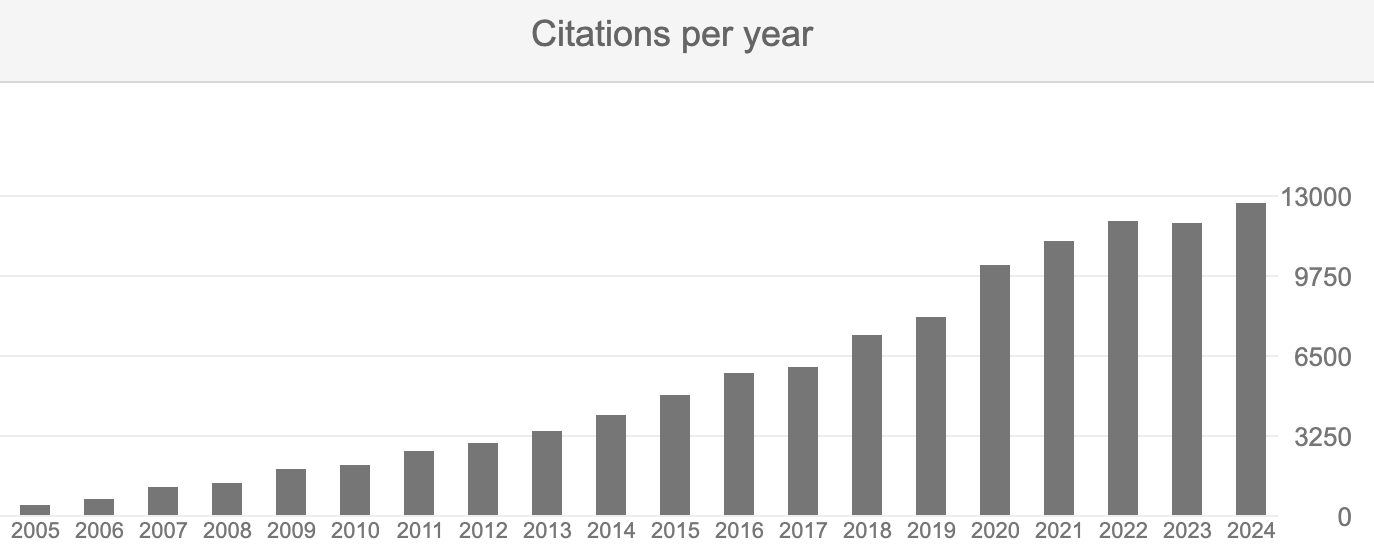
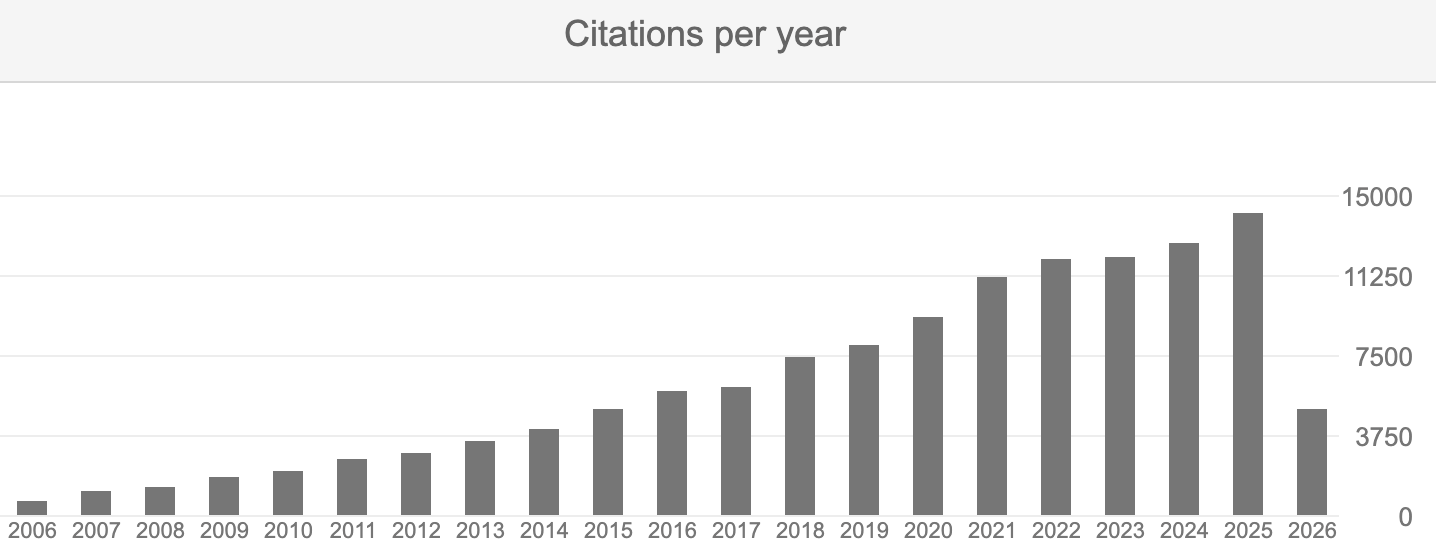
Merge pull request #57 from geoschem/feature/update-usermap-may2026
Update GEOS-Chem User Map and Stats Page

Pull request: Update GEOS-Chem User Map and Stats Page
### Name and Institution (Required)

Name: Melissa Sulprizio
Institution: Harvard

### Describe the update

Update the GEOS-Chem user map to include new institutions from the latest registered users list.

Also updated the GEOS-Chem by the numbers page (stats.html) to include (1) the latest number of users count for 2025 and 2026 and (2) an updated bar chart for number of GEOS-Chem citations.

diff --git a/users.html b/users.html
@@ -110,7 +110,7 @@
 </p>
 
 <p align="center">
-	Last updated: June 2024
+	Last updated: May 2026
 </p>
 
 <!-- Map from original ACMG website -->
@@ -188,6 +188,12 @@
   // Australian National University
   L.marker([-35.28124451436539, 149.11824869527752], { icon: blueIcon }).addTo(mymap).bindPopup("<strong>Australian National University</strong><br>Canberra, Australia<ul><li><a href='https://nci.org.au/' target='_new'>National Computational Infrastructure (NCI)</a></li></ul>");
 
+  // Banaras Hindu University
+  L.marker([25.268535251134985, 82.99052197975918], { icon: blueIcon }).addTo(mymap).bindPopup("<strong>Banaras Hindu University</strong><br>Varanasi, India</strong><ul><li><a href='https://www.bhu.ac.in/Site/Home/1_2_16_Main-Site' target='_new'>Website</a></li></ul>");
+
+  // Bar-Ilan University
+  L.marker([32.06918069047199, 34.84314124051376], { icon: blueIcon }).addTo(mymap).bindPopup("<strong>Bar-Ilan University</strong><br>Ramat Gan, Israel</strong><ul><li><a href='https://www.biu.ac.il/en' target='_new'>Website</a></li></ul>");
+
   // Baylor University
   L.marker([31.550075631159743, -97.11348635896569], { icon: blueIcon }).addTo(mymap).bindPopup("<strong>Baylor University</strong><br>Waco, Texas, USA</strong><ul><li><a href='https://environmentalscience.artsandsciences.baylor.edu/' target='_new'>Department of Environmental Science</a></li></ul>");
 
@@ -227,6 +233,9 @@
   // Caltech
   L.marker([34.13765314049858, -118.12527436670602], { icon: blueIcon }).addTo(mymap).bindPopup("<strong>California Institute of Technology</strong><br>Pasadena, California, USA<ul><li><a href='https://wennberglab.caltech.edu/' target='_new'>Wennberg Lab</li></ul>");
 
+  // Carbon Mapper
+  L.marker([34.1454152349616, -118.13640114407322], { icon: blueIcon }).addTo(mymap).bindPopup("<strong>Carbon Mapper</strong><br>Pasadena, California, USA<ul><li><a href='https://carbonmapper.org/' target='_new'>Website</li></ul>");
+
   // Cardiff University
   L.marker([51.488827229102526, -3.178811723294426], { icon: blueIcon }).addTo(mymap).bindPopup("<strong>Cardiff University/strong><br>Cardiff, UK<ul><li><a href='https://omarnawaz.com/' target='_new'>Climate and Atmospheric Science for Action Group (CASA)</li></ul>");
 
@@ -263,6 +272,9 @@
   // China University of Geosciences
   L.marker([30.516052531832578, 114.40242461025662], { icon: blueIcon }).addTo(mymap).bindPopup("<strong>China University of Geoscience</strong><br>Wuhan, China<ul><li><a href='https://en.cug.edu.cn/' target='_new'>Website</a></li></ul>");
 
+  // China West Normal University
+  L.marker([30.820119965727674, 106.06895119510067], { icon: blueIcon }).addTo(mymap).bindPopup("<strong>China West Normal University</strong><br>Nanchong, Sichuan, China<ul><li><a href='https://www.cwnu.edu.cn/' target='_new'>Website</a></li></ul>");
+
   // China University of Mining and Technology
   L.marker([39.997986823978344, 116.34848428095418], { icon: blueIcon }).addTo(mymap).bindPopup("<strong>China University of Mining and Technology</strong><br>Xuzhou, China<ul><li><a href='https://english.cumtb.edu.cn/' target='_new'>Website</a></li></ul>");
 
@@ -286,6 +298,9 @@
 
   // Chungnam National University
   L.marker([36.368815211295875, 127.34684477003172], { icon: blueIcon }).addTo(mymap).bindPopup("<strong>Chungnam National University</strong><br>Daejeon, South Korea<ul><li><a href='https://plus.cnu.ac.kr/html/en/' target='_new'>Website</a></li></ul>");
+
+  // Chuo University
+  L.marker([35.641023425617526, 139.4042474537627], { icon: blueIcon }).addTo(mymap).bindPopup("<strong>Chuo University</strong><br>Hachioji, Japan<ul><li><a href='https://www.chuo-u.ac.jp/english/' target='_new'>Website</a></li></ul>");
 
   // CIEMAT
   L.marker([40.45411784374525, -3.728946830556703], { icon: blueIcon }).addTo(mymap).bindPopup("<strong>CIEMAT</strong><br>Madrid, Spain<ul><li><a href='https://www.ciemat.es/' target='_new'>Website</a></li></ul>");
@@ -338,17 +353,20 @@
   // École Polytechnique
   L.marker([48.7147380132475, 2.215718140984176], { icon: blueIcon }).addTo(mymap).bindPopup("<strong>École Polytechnique</strong><br>Palaiseau, France<ul><li><a href='https://www.polytechnique.edu/en' target='_new'>Website</a></li></ul>");
 
-  // EFPL
-  L.marker([46.51905567099026, 6.566703953248848], { icon: blueIcon }).addTo(mymap).bindPopup("<strong>EFPL</strong><br>Lausanne, Switzerland<ul><li><a href='https://www.epfl.ch/labs/lapi/' target='_new'>Laboratory of atmospheric processes and their impacts (LAPI)</a></li></ul>");
-
   // Electric Power Research Institute (EPRI)
   L.marker([37.39705950928723, -122.14521947857237], { icon: blueIcon }).addTo(mymap).bindPopup("<strong>Electric Power Research Institute (EPRI)</strong><br>Palo Alto, California, USA<ul><li><a href='https://www.epri.com/' target='_new'>Website</a></li></ul>");
 
   // Environment and Climate Change Canada
   L.marker([43.781175069183135, -79.46941936822819], { icon: blueIcon }).addTo(mymap).bindPopup("<strong>Environment and Climate Change Canada</strong><br>Toronto, Ontario, Canada<ul><li><a href='https://www.canada.ca/en/environment-climate-change.html' target='_new'>Website</a></li></ul>");
 
+  // Environmental Defense Fund
+  L.marker([40.73851993115424, -73.98715086695302], { icon: blueIcon }).addTo(mymap).bindPopup("<strong>Environmental Defense Fund</strong><br>New York, New York, USA<ul><li><a href='https://www.edf.org/' target='_new'>Website</a></li></ul>");
+
   // Eötvös Loránd University
   L.marker([47.4905625214605, 19.058662514141485], { icon: blueIcon }).addTo(mymap).bindPopup("<strong>Eötvös Loránd University</strong><br>Budapest, Hungary<ul><li><a href='https://www.math.elte.hu/en/' target='_new'>Institute of Mathematics</a></li></ul>");
+
+  // EPFL
+  L.marker([46.52046762329701, 6.570191535225245], { icon: blueIcon }).addTo(mymap).bindPopup("<strong>EPFL</strong><br>Ecublens, Switzerland<ul><li><a href='https://www.epfl.ch/labs/lapi/' target='_new'>Laboratory of atmospheric processes and their impacts (LAPI)</a></li></ul>");
 
   // ETH Zurich
   L.marker([47.37638160570821, 8.547660183239364], { icon: blueIcon }).addTo(mymap).bindPopup("<strong>ETH Zurich</strong><br>Zurich, Switzerland<ul><li><a href='https://iac.ethz.ch/group/atmospheric-chemistry.html' target='_new'>Atmospheric Chemistry</a></li><li><a href='https://iac.ethz.ch/group/atmospheric-physics.html' target='_new'>Atmospheric Physics</a></li></ul>");
@@ -359,17 +377,26 @@
   // ExxonMobil Research and Engineering, Corporate Strategic Research
   L.marker([40.63635953798503, -74.86503770596059], { icon: blueIcon }).addTo(mymap).bindPopup("<strong>ExxonMobil Research and Engineering</strong><br>Annandale, New Jersey, USA<ul><li><a href='https://corporate.exxonmobil.com/en/energy/research-and-development' target='_new'>Corporate Strategic Research</a></li></ul>");
 
+  // First Institute of Oceanography
+  L.marker([36.10225966011053, 120.45930046626529], { icon: blueIcon }).addTo(mymap).bindPopup("<strong>First Institute of Oceanography</strong><br>Qingdao, China<ul><li><a href='https://en.fio.org.cn/' target='_new'>Website</a></li></ul>");
+
   // Fudan University
   L.marker([31.297437997558845, 121.50363925807366], { icon: blueIcon }).addTo(mymap).bindPopup("<strong>Fudan University</strong><br>Shanghai Shi, China<ul><li><a href='https://aos.fudan.edu.cn/zzbsh/list.htm' target='_new'>Institute of Atmospheric Sciences</a></li><li><a href='https://environment.fudan.edu.cn/' target='_blank'>Department of Environmental Science and Engineering</a></li></ul>");
 
   // Fujian Normal University
   L.marker([26.035947082276685, 119.30624493910481], { icon: blueIcon }).addTo(mymap).bindPopup("<strong>Fujian Normal University</strong><br>Fujian, China<ul><li><a href='https://geo.fjnu.edu.cn/en/main.htm' target='_new'>School of Geographical Sciences</a></li></ul>");
 
+  // GE Aerospace
+  L.marker([39.24452332698239, -84.44258156082859], { icon: blueIcon }).addTo(mymap).bindPopup("<strong>GE Aerospace</strong><br>Evandale, Ohio, USA<ul><li><a href='https://www.geaerospace.com/' target='_new'>Website</a></li></ul>");
+
   // George Washington University
   L.marker([38.89971447161152, -77.04855628834781], { icon: blueIcon }).addTo(mymap).bindPopup("<strong>George Washington University</strong><br>Washington, DC, USA<ul><li><a href='https://blogs.gwu.edu/sanenberg/' target='_new'>Air, Climate, and Health Lab</a></li></ul>");
 
   // Georgia Tech
   L.marker([33.7756177609747, -84.39627427122511], { icon: blueIcon }).addTo(mymap).bindPopup("<strong>Georgia Tech</strong><br>Atlanta, GA, USA<ul><li><a href='https://kaisergroup.ce.gatech.edu/' target='_new'>Kaiser Group</li><li><a href='https://www.asdl.gatech.edu/' target='_blank'>Aerospace Systems Design Laboratory</a></li></ul>");
+
+  // GMV
+  L.marker([40.59371271357736, -3.701506098211796], { icon: blueIcon }).addTo(mymap).bindPopup("<strong>GMV</strong><br>Madrid, Spain<ul><li><a href='https://www.gmv.com/en-es' target='_new'>Website</li></ul>");
 
   // Goa University
   L.marker([15.457333725099007, 73.83538523771075], { icon: blueIcon }).addTo(mymap).bindPopup("<strong>Goa University</strong><br>Goa, India<ul><li><a href='https://www.unigoa.ac.in/' target='_new'>Website</a></li></ul>");
@@ -380,11 +407,17 @@
   // Guangxi University
   L.marker([22.81447775817724, 108.32426664062777], { icon: blueIcon }).addTo(mymap).bindPopup("<strong>Guangxi University</strong><br>Guangxi, China<ul><li><a href='https://bs.gxu.edu.cn/' target='_new'>Website</a></li></ul>");
 
+  // Guangzhou University
+  L.marker([23.04137369885725, 113.36779266731932], { icon: blueIcon }).addTo(mymap).bindPopup("<strong>Guangzhou University</strong><br>Guangzhou, China<ul><li><a href='https://arsi.gzhu.edu.cn/' target='_new'>Institute of Aerospace Remote Sensing Innovations (ARSI)</a></li></ul>");
+
   // Guizhou Minzu University
   L.marker([26.46383337227194, 106.66973371164009], { icon: blueIcon }).addTo(mymap).bindPopup("<strong>Guizhou Minzu University</strong><br>Guizhou, China<ul><li><a href='https://www.gzmu.edu.cn/' target='_new'>Website</a></li></ul>");
 
   // Guizhou University
   L.marker([26.44248192693396, 106.67240128370068], { icon: blueIcon }).addTo(mymap).bindPopup("<strong>Guizhou University</strong><br>Guizhou, China<ul><li><a href='www.gzu.edu.cn' target='_new'>Website</a></li></ul>");
+
+  // Gulfstream Aerospace
+  L.marker([32.139567681028716, -81.18839027152032], { icon: blueIcon }).addTo(mymap).bindPopup("<strong>Gulfstream Aerospace</strong><br>Savannah, Georgia, USA<ul><li><a href='https://www.gulfstream.com/en/' target='_new'>Website</a></li></ul>");
 
   // Hampton University
   L.marker([37.02283060621309, -76.33431738761512], { icon: blueIcon }).addTo(mymap).bindPopup("<strong>Hampton University</strong><br>Hampton, Virginia, USA<ul><li><a href='https://home.hamptonu.edu/science/atmospheric-planetary-sciences/' target='_new'>Atmospheric and Planetary Sciences</a></li></ul>");
@@ -434,14 +467,20 @@
   // Indian Institute of Science and Research Pune
   L.marker([18.54692002577907, 73.80754262172489], { icon: blueIcon }).addTo(mymap).bindPopup("<strong>Indian Institute of Science and Research Pune</strong><br>Pune, India<ul><li><a href='https://www.iiserpune.ac.in/' target='_new'>Website</a></li></ul>");
 
+  // Indian Institute of Science Education and Research Mohali
+  L.marker([30.663760712444283, 76.72750223486955], { icon: blueIcon }).addTo(mymap).bindPopup("<strong>Indian Institute of Science Education and Research Mohali</strong><br>Nagar, India<ul><li><a href='https://www.iisermohali.ac.in/' target='_new'>Website</a></li></ul>");
+
+  // Indian Institute of Technology (ISM) Dhanbad
+  L.marker([23.81440706327089, 86.44130264049929], { icon: blueIcon }).addTo(mymap).bindPopup("<strong>Indian Institute of Technology (ISM) Dhanbad</strong><br>Dhanbad, India<ul><li><a href='https://www.iitism.ac.in/' target='_new'>Website</a></li></ul>");
+
   // Indian Institute of Technology Bombay
   L.marker([19.13350112332897, 72.91356830937697], { icon: blueIcon }).addTo(mymap).bindPopup("<strong>Indian Institute of Technology Bombay</strong><br>Bombay, India<ul><li><a href='https://www.esed.iitb.ac.in/' target='_new'>Environmental Science and Engineering</a></li></ul>");
 
   // Indian Institute of Technology Delhi
   L.marker([28.545708723480907, 77.19274103527056], { icon: blueIcon }).addTo(mymap).bindPopup("<strong>Indian Institute of Technology Delhi</strong><br>Delhi, India<ul><li><a href='https://cas.iitd.ac.in/' target='_new'>Center for Atmospheric Sciences</a></li></ul>");
 
-  // Indian Institute of Technology (ISM) Dhanbad
-  L.marker([23.81440706327089, 86.44130264049929], { icon: blueIcon }).addTo(mymap).bindPopup("<strong>Indian Institute of Technology (ISM) Dhanbad</strong><br>Dhanbad, India<ul><li><a href='https://www.iitism.ac.in/' target='_new'>Website</a></li></ul>");
+  // Indian Institute of Technology Gandhinagar
+  L.marker([23.21324585841199, 72.68574149817186], { icon: blueIcon }).addTo(mymap).bindPopup("<strong>Indian Institute of Technology Gandhinagar</strong><br>Gandhinagar, India<ul><li><a href='https://iitgn.ac.in/' target='_new'>Website</a></li></ul>");
 
   // Indian Institute of Technology Hyderabad
   L.marker([17.594896990005925, 78.12280406701275], { icon: blueIcon }).addTo(mymap).bindPopup("<strong>Indian Institute of Technology Hyderabad</strong><br>Telangana, India<ul><li><a href='https://asifqureshi.wordpress.com/' target='_new'>The C2 Lab</a></li></ul>");
@@ -457,6 +496,9 @@
 
   // Indiana University
   L.marker([39.16822400382802, -86.5230341414705], { icon: blueIcon }).addTo(mymap).bindPopup("<strong>Indiana University</strong><br>Bloomington, IN, USA<ul><li><a href='https://psslab.sitehost.iu.edu/' target='_new'>Stevens Lab</a></li></ul>");
+
+  // Inha University
+  L.marker([37.4500050370525, 126.65344508140893], { icon: blueIcon }).addTo(mymap).bindPopup("<strong>Inha University</strong><br>Incheon, South Korea<ul><li><a href='https://eng.inha.ac.kr/eng/index.do' target='_new'>Website</a></li></ul>");
 
   // Institut des Géosciences de l’Environnement
   L.marker([45.19339784939228, 5.757755539556316], { icon: blueIcon }).addTo(mymap).bindPopup("<strong>Institut des Géosciences de l’Environnement</strong><br>Saint Martin d'Hères, France<ul><li><a href='https://www.ige-grenoble.fr/' target='_new'>Website</a></li></ul>");
@@ -482,14 +524,20 @@
   // Italian National Research Council
   L.marker([42.10635823084128, 12.637777631446253], { icon: blueIcon }).addTo(mymap).bindPopup("<strong>Italian National Research Council</strong><br>Monterotondo RM, Italy<ul><li><a href='http://www.iia.cnr.it' target='_new'>Website</a></li></ul>");
 
-  // Japan Agency for Marine-Earth Science and Technology
-  L.marker([35.32017330000001, 139.65019844971582], { icon: blueIcon }).addTo(mymap).bindPopup("<strong>Japan Agency for Marine-Earth Science and Technology</strong><br>Kanagawa, Japan<ul><li><a href='https://www.jamstec.go.jp/e/' target='_new'>Website</a></li></ul>");
-
   // JANUS
   L.marker([35.6973953971869, 139.69860086707814], { icon: blueIcon }).addTo(mymap).bindPopup("<strong>JANUS</strong><br>Tokyo, Japan<ul><li><a href='https://www.janus.co.jp/en/' target='_new'>Website</a></li></ul>");
 
+  // Japan Aerospace Exploration Agency
+  L.marker([36.067227488978425, 140.12944100330515], { icon: blueIcon }).addTo(mymap).bindPopup("<strong>Japan Aerospace Exploration Agency</strong><br>Tsukuba, Japan<ul><li><a href='https://global.jaxa.jp/' target='_new'>Website</a></li></ul>");
+
+  // Japan Agency for Marine-Earth Science and Technology
+  L.marker([35.32017330000001, 139.65019844971582], { icon: blueIcon }).addTo(mymap).bindPopup("<strong>Japan Agency for Marine-Earth Science and Technology</strong><br>Kanagawa, Japan<ul><li><a href='https://www.jamstec.go.jp/e/' target='_new'>Website</a></li></ul>");
+
   // Jawaharlal Nehru University
   L.marker([28.53981761340335, 77.16637787404534], { icon: blueIcon }).addTo(mymap).bindPopup("<strong>Jawaharlal Nehru University</strong><br>New Delhi, India<ul><li><a href='https://jnu.ac.in/main/' target='_new'>Website</a></li></ul>");
+
+  // Jiangsu University
+  L.marker([32.199310895071704, 119.51420389471704], { icon: blueIcon }).addTo(mymap).bindPopup("<strong>Jiangsu University</strong><br>Zhenjiang, Jiangsu, China<ul><li><a href='https://eng.ujs.edu.cn/' target='_new'>Website</a></li></ul>");
 
   // Jilin University
   L.marker([43.8257199709781, 125.28499463949899], { icon: blueIcon }).addTo(mymap).bindPopup("<strong>Jilan University</strong><br>Jilan, China<ul><li><a href='https://icfs.jlu.edu.cn/' target='_new'>International Center of Future Science</a></li></ul>");
@@ -562,6 +610,12 @@
 
   // Michigan Technical University
   L.marker([47.11927205970655, -88.5462757368698], { icon: blueIcon }).addTo(mymap).bindPopup("<strong>Michigan Technical University</strong><br>Houghton, Michigan, USA<ul><li><a href='http://www.geo.mtu.edu/geoschem/' target='_new'>Wu Group</a></li></ul>");
+
+  // Minnan Normal University
+  L.marker([24.510343740097372, 117.6342850982022], { icon: blueIcon }).addTo(mymap).bindPopup("<strong>Minnan Normal University</strong><br>Zhangzhou, Fujian, China<ul><li><a href='https://www.mnnu.edu.cn/english/AboutUs.htm' target='_new'>Website</a></li></ul>");
+
+  // Mizoram University
+  L.marker([23.73372166400336, 92.66826258004829], { icon: blueIcon }).addTo(mymap).bindPopup("<strong>Mizoram University</strong><br>Aizawl, Mizoram, India<ul><li><a href='https://mzu.edu.in/' target='_new'>Website</a></li></ul>");
 
   // MSC-East
   L.marker([55.70637390384365, 37.60202434156508], { icon: blueIcon }).addTo(mymap).bindPopup("<strong>MSC-East</strong><br>Moscow, Russia<ul><li><a href='https://ecovostok.com/msce-engl' target='_new'>Website</a></li></ul>");
@@ -645,7 +699,7 @@
   L.marker([40.79834320001314, -77.85947924002869], { icon: blueIcon }).addTo(mymap).bindPopup("<strong>Pennsylvania State University</strong><br>State College, Pennsylvania, USA<ul><li><a href='https://pure.psu.edu/en/persons/jeffrey-yanosky' target='_new'>Institute of Energy and the Environment (IEE)</a></li><li><a href='http://www.met.psu.edu/' target='_new'>Department of Meteorology and Atmospheric Sciences</a></li></ul>");
 
   // Physical Research Laboratory, Ahmedabad
-  L.marker([23.0361017, 72.5434248], { icon: blueIcon }).addTo(mymap).bindPopup("<strong>Physical Research Laboratory, Ahmedabad</strong><br>Gujarat, India<ul><li><a href='https://www.prl.res.in/prl-eng/' target='_new'>Website</a></li></ul>");
+  L.marker([23.0361017, 72.5434248], { icon: blueIcon }).addTo(mymap).bindPopup("<strong>Physical Research Laboratory</strong><br>Gujarat, India<ul><li><a href='https://www.prl.res.in/prl-eng/' target='_new'>Website</a></li></ul>");
 
   // PMOD/WRC
   L.marker([47.453735211415015, 8.565044470342425], { icon: blueIcon }).addTo(mymap).bindPopup("<strong>PMOD/WRC</strong><br>Kloten, Switzerland<ul><li><a href='https://www.meteoswiss.admin.ch/about-us/research-and-cooperation/international-cooperation/pmod-wrc.html' target='_new'>Website</a></li></ul>");
@@ -682,6 +736,9 @@
 
   // Rutgers University
   L.marker([40.741703041685085, -74.17421592676995], { icon: blueIcon }).addTo(mymap).bindPopup("<strong>Rutgers University</strong><br>Newark, New Jersey, USA<ul><li><a href='https://sites.rutgers.edu/sebs-asg/' target='_new'>Atmospheric Sciences Grop</a></li></ul>");
+
+  // S&P
+  L.marker([40.703311423809474, -74.00913798962742], { icon: blueIcon }).addTo(mymap).bindPopup("<strong>S&P</strong><br>New York, New York, USA<ul><li><a href='https://www.spglobal.com/en' target='_new'>Website</a></li></ul>");
 
   // Saint Louis University
   L.marker([38.63587919105803, -90.23408018835975], { icon: blueIcon }).addTo(mymap).bindPopup("<strong>Saint Louis University</strong><br>St. Louis, Missouri, USA<ul><li><a href='https://www.slu.edu/' target='_new'>Website</a></li></ul>");
@@ -737,6 +794,9 @@
   // South China University of Technology
   L.marker([23.151625220331066, 113.3467417866279], { icon: blueIcon }).addTo(mymap).bindPopup("<strong>South China University of Technology</strong><br>Guangzhou, China<ul><li><a href='https://www.scut.edu.cn/new/' target='_new'>Website</a></li></ul>");
 
+  // Space Physics Laboratory (SPL)
+  L.marker([8.512403348923518, 76.88866269796091], { icon: blueIcon }).addTo(mymap).bindPopup("<strong>Space Physics Laboratory (SPL)</strong><br>Thiruvananthapuram, Kerala, India<ul><li><a href='https://spl.gov.in/SPLv2/' target='_new'>Vikram Sarabhai Space Centre (VSSC)</a></li></ul>");
+
   // SRM Institute of Science and Technology
   L.marker([12.82472946624605, 80.05007651772532], { icon: blueIcon }).addTo(mymap).bindPopup("<strong>SRM Institute of Science and Technology</strong><br>Kattankulathur, India<ul><li><a href='https://srmaoml.wixsite.com/home' target='_new'>Website</a></li></ul>");
 
@@ -767,6 +827,9 @@
   // Texas Commission on Environmental Quality
   L.marker([30.394188115580125, -97.67504459188966], { icon: blueIcon }).addTo(mymap).bindPopup("<strong>Texas Commission on Environmental Quality</strong><br>Austin, Texas, USA<ul><li><a href='https://www.tceq.texas.gov/' target='_new'>Website</a></li></ul>");
 
+  // The Citadel
+  L.marker([32.79583059227635, -79.95937243039643], { icon: blueIcon }).addTo(mymap).bindPopup("<strong>The Citadel</strong><br>Charleston, South Carolina, USA<ul><li><a href='https://www.citadel.edu/' target='_new'>Website</a></li></ul>");
+
   // The Hong Kong Polytechnic University (PolyU)
   L.marker([22.304548484670075, 114.17962459478647], { icon: blueIcon }).addTo(mymap).bindPopup("<strong>The Hong Kong Polytechnic University (PolyU)</strong><br>Hong Kong, China<ul><li><a href='https://www.polyu.edu.hk/en/' target='_new'>Website</a></li></ul>");
 
@@ -794,6 +857,9 @@
   // Tianjin University
   L.marker([39.10807523422954, 117.17612087776793], { icon: blueIcon }).addTo(mymap).bindPopup("<strong>Tianjin University</strong><br>Tianjin, China<ul><li><a href='https://tju.edu.cn/english/index.htm' target='_new'>Website</a></li></ul>");
 
+  // Toyo University
+  L.marker([35.722739472465015, 139.75033206970448], { icon: blueIcon }).addTo(mymap).bindPopup("<strong>Toyo University</strong><br>Tokyo, Japan<ul><li><a href='https://www.toyo.ac.jp/' target='_new'>Website</a></li></ul>");
+
   // Tsinghua Shenzhen International Graduate School
   L.marker([22.590982190633806, 113.9698264074605], { icon: blueIcon }).addTo(mymap).bindPopup("<strong>Tsinghua Shenzhen International Graduate School</strong><br>Nanshan, Shenzhen, China<ul><li><a href='https://www.sigs.tsinghua.edu.cn/en/' target='_new'>Website</a></li></ul>");
 
@@ -802,6 +868,9 @@
 
   // Ulsan National Institute of Science & Technology
   L.marker([35.573426299149524, 129.18952170786264], { icon: blueIcon }).addTo(mymap).bindPopup("<strong>Ulsan National Institute of Science & Technology</strong><br>Ulsan, South Korea<ul><li><a href='https://www.unist.ac.kr/' target='_new'>Website</a></li></ul>");
+
+  // Universidad Autonoma de Madrid 
+  L.marker([40.54669827130469, -3.694297530110595], { icon: blueIcon }).addTo(mymap).bindPopup("<strong>Universidad Autonoma de Madrid</strong><br>Madrid, Spain<ul><li><a href='https://www.uam.es/uam/en/inicio' target='_new'>Website</a></li></ul>");
 
   // Universidad Nacional Toribio Rodriguez de Mendoza
   L.marker([-6.233476901310456, -77.8532509351885], { icon: blueIcon }).addTo(mymap).bindPopup("<strong>Universidad Nacional Toribio Rodriguez de Mendoza</strong><br>Chachapoyas, Peru<ul><li><a href='http://www.untrm.edu.pe/' target='_new'>Website</a></li></ul>");
@@ -824,8 +893,11 @@
   // Universite de Lille
   L.marker([50.60867516112225, 3.142259861528891], { icon: blueIcon }).addTo(mymap).bindPopup("<strong>Universite de Lille</strong><br>Villeneuve D'ASCQ, France<ul><li><a href='http://www-loa.univ-lille1.fr/' target='_new'>Laboratoire d'Optique Atmosphérique</a></li></ul>");
 
-  // Universite de Montreal Montreal
+  // Universite de Montreal 
   L.marker([45.52311030716304, -73.61974634903947], { icon: blueIcon }).addTo(mymap).bindPopup("<strong>Universite de Montreal</strong><br>Montreal, Quebec, Canada<ul><li><a href='https://sites.google.com/site/hayesgroupatmontreal/home' target='_new'>Atmospheric and Analytical Chemistry Group</a></li></ul>");
+
+  // Universite de Sherbrooke 
+  L.marker([45.37794237095611, -71.92932982990341], { icon: blueIcon }).addTo(mymap).bindPopup("<strong>Universite de Sherbrooke</strong><br>Sherbrooke, Quebec, Canada<ul><li><a href='https://www.usherbrooke.ca/about/' target='_new'>Website</a></li></ul>");
 
   // Universite de Toulouse
   L.marker([43.59502378184348, 1.4513432888733038], { icon: blueIcon }).addTo(mymap).bindPopup("<strong>Universit&eacute; de Toulouse III-Paul Sabatier</strong><br>Toulouse, France<ul><li><a href='https://www.univ-tlse3.fr/structures-de-recherche/laboratoire-d-aerologie' target='_new'>Laboratoire d'A&eacute;rologie - LAERO</a></li></ul>");
@@ -938,8 +1010,14 @@
   // University of Northern British Columbia
   L.marker([53.89219072719476, -122.81330705805765], { icon: blueIcon }).addTo(mymap).bindPopup("<strong>University of Northern British Columbia</strong><br>Prince George, British Columbia, Canada</strong><ul><li><a href='https://www.unbc.ca/department-geography-earth-and-environmental-sciences' target='_new'>Department of Geography, Earth, and Environmental Sciences</a></li></ul>");
 
+  // University of Oxford
+  L.marker([51.75704287175706, -1.2544642584346986], { icon: blueIcon }).addTo(mymap).bindPopup("<strong>University of Oxford</strong><br>Oxford, UK</strong><ul><li><a href='https://eodg.atm.ox.ac.uk/eodg/' target='_new'>Earth Observation Data Group</a></li></ul>");
+
   // University of Reading
   L.marker([51.440308471801956, -0.9421816336528414], { icon: blueIcon }).addTo(mymap).bindPopup("<strong>University of Reading</strong><br>Reading, UK<ul><li><a href='https://www.reading.ac.uk' target='_new'>Website</a></li></ul>");
+
+  // University of Saskatchewan
+  L.marker([52.13340545747719, -106.6312923295798], { icon: blueIcon }).addTo(mymap).bindPopup("<strong>University of Saskatchewan</strong><br>Saskatoon, Saskatchewan, Canada<ul><li><a href='https://www.usask.ca/' target='_new'>Website</a></li></ul>");
 
   // University of Science and Technology Beijing
   L.marker([39.98945275136345, 116.36009036998563], { icon: blueIcon }).addTo(mymap).bindPopup("<strong>University of Science and Technology Beijing</strong><br>Beijing, China<ul><li><a href='https://www.ustb.edu.cn/' target='_new'>Website</a></li></ul>");
@@ -1052,6 +1130,9 @@
   // Zhengzhou Institute of Meteorology
   L.marker([34.83423731324411, 113.49408574837352], { icon: blueIcon }).addTo(mymap).bindPopup("<strong>Zhengzhou Institute of Meteorology</strong><br>Zhengzhou, China<ul><li><a href='https://www.zim.ac.cn/' target='_new'>Website</a></li></ul>");
 
+  // Zhongke Sanqing Technology
+  L.marker([39.97081683274415, 116.43720656610027], { icon: blueIcon }).addTo(mymap).bindPopup("<strong>Zhongke Sanqing Technology</strong><br>Beijing, China<ul><li><a href='https://discovery.patsnap.com/company/zhongke-sanqing-technology/' target='_new'>Website</a></li></ul>");
+
   //----------------------------------------------------
   // PUT GCSC's AFTER REGULAR USERS TO MAKE PINS SHOW UP
   //----------------------------------------------------
@@ -1152,6 +1233,4 @@
   mymap.on('click', onMapClick);
 
 </script>
-
-<p align="center"><i>Updated Jan 2026</i></p>
 

diff --git a/stats.html b/stats.html
@@ -158,7 +158,7 @@ body {
   <div class="column">
     <div class="card">
       <p><i class="fa fa-user"></i></p>
-      <span style="font-size:40px;">1400+</span>
+      <span style="font-size:40px;">1600+</span>
       <h3>Users</h3>
     </div>
   </div>
@@ -166,7 +166,7 @@ body {
   <div class="column">
     <div class="card">
       <p><i class="fa fa-building"></i></p>
-      <span style="font-size:40px;">330+</span>
+      <span style="font-size:40px;">380+</span>
       <h3>Institutions</h3>
     </div>
   </div>
@@ -174,7 +174,7 @@ body {
   <div class="column">
     <div class="card">
       <p><i class="fa fa-globe"></i></p>
-      <span style="font-size:40px;">39</span>
+      <span style="font-size:40px;">40</span>
       <h3>Countries<h3>
     </div>
   </div>
@@ -210,7 +210,7 @@ body {
 
 <h3><span style="font-size:40px;color:#377dbd;"><b>500+ TB</b></span> of <a href="https://registry.opendata.aws/geoschem-input-data/" target="#">input data catalog</a> includes NASA GMAO assimilated meteorology and numerous emission inventories</h3>
 
-<h3>Large and growing impact with <span style="font-size:40px;color:#377dbd;"><b>122,000+ citations</b></span> of <a href="https://scholar.google.com/citations?user=ho-sNj4AAAAJ" target="#">GEOS-Chem publications </a></h3>
+<h3>Large and growing impact with <span style="font-size:40px;color:#377dbd;"><b>130,000+ citations</b></span> of <a href="https://scholar.google.com/citations?user=ho-sNj4AAAAJ" target="#">GEOS-Chem publications </a></h3>
 
 <p align="center">
   <a href="https://scholar.google.com/citations?user=ho-sNj4AAAAJ" target="#"><img style="width: 100%;" alt="GEOS-Chem citations per year" src="img/gc_citations.png"/></a>
@@ -218,7 +218,7 @@ body {
 
 <h3>Includes dedicated tools for data assimilation such as <a href="https://wiki.seas.harvard.edu/geos-chem/index.php/GEOS-Chem_Adjoint_Model" target="#">model adjoint</a>, <a href="https://carboninversion.com/" target="#">analytical inversion</a>, and <a href="https://cheereio.readthedocs.io/en/latest/" target="#">Kalman filters</a></h3>
 
-<p align="center"><i>Updated Jan 2026</i></p>
+<p align="center"><i>Updated May 2026</i></p>
 
 </div>
 </div>